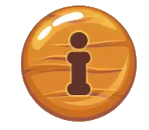
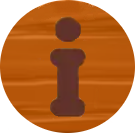
better hint button

diff --git a/GUI.py b/GUI.py
@@ -97,5 +97,5 @@ class GUI:
         self.screen.blit(text_surface, (10, 5))
 
     def draw_hint_button(self):
-        x, y = 545, 0
+        x, y = 545, 5
         self.screen.blit(self.hint_button, (x, y))
